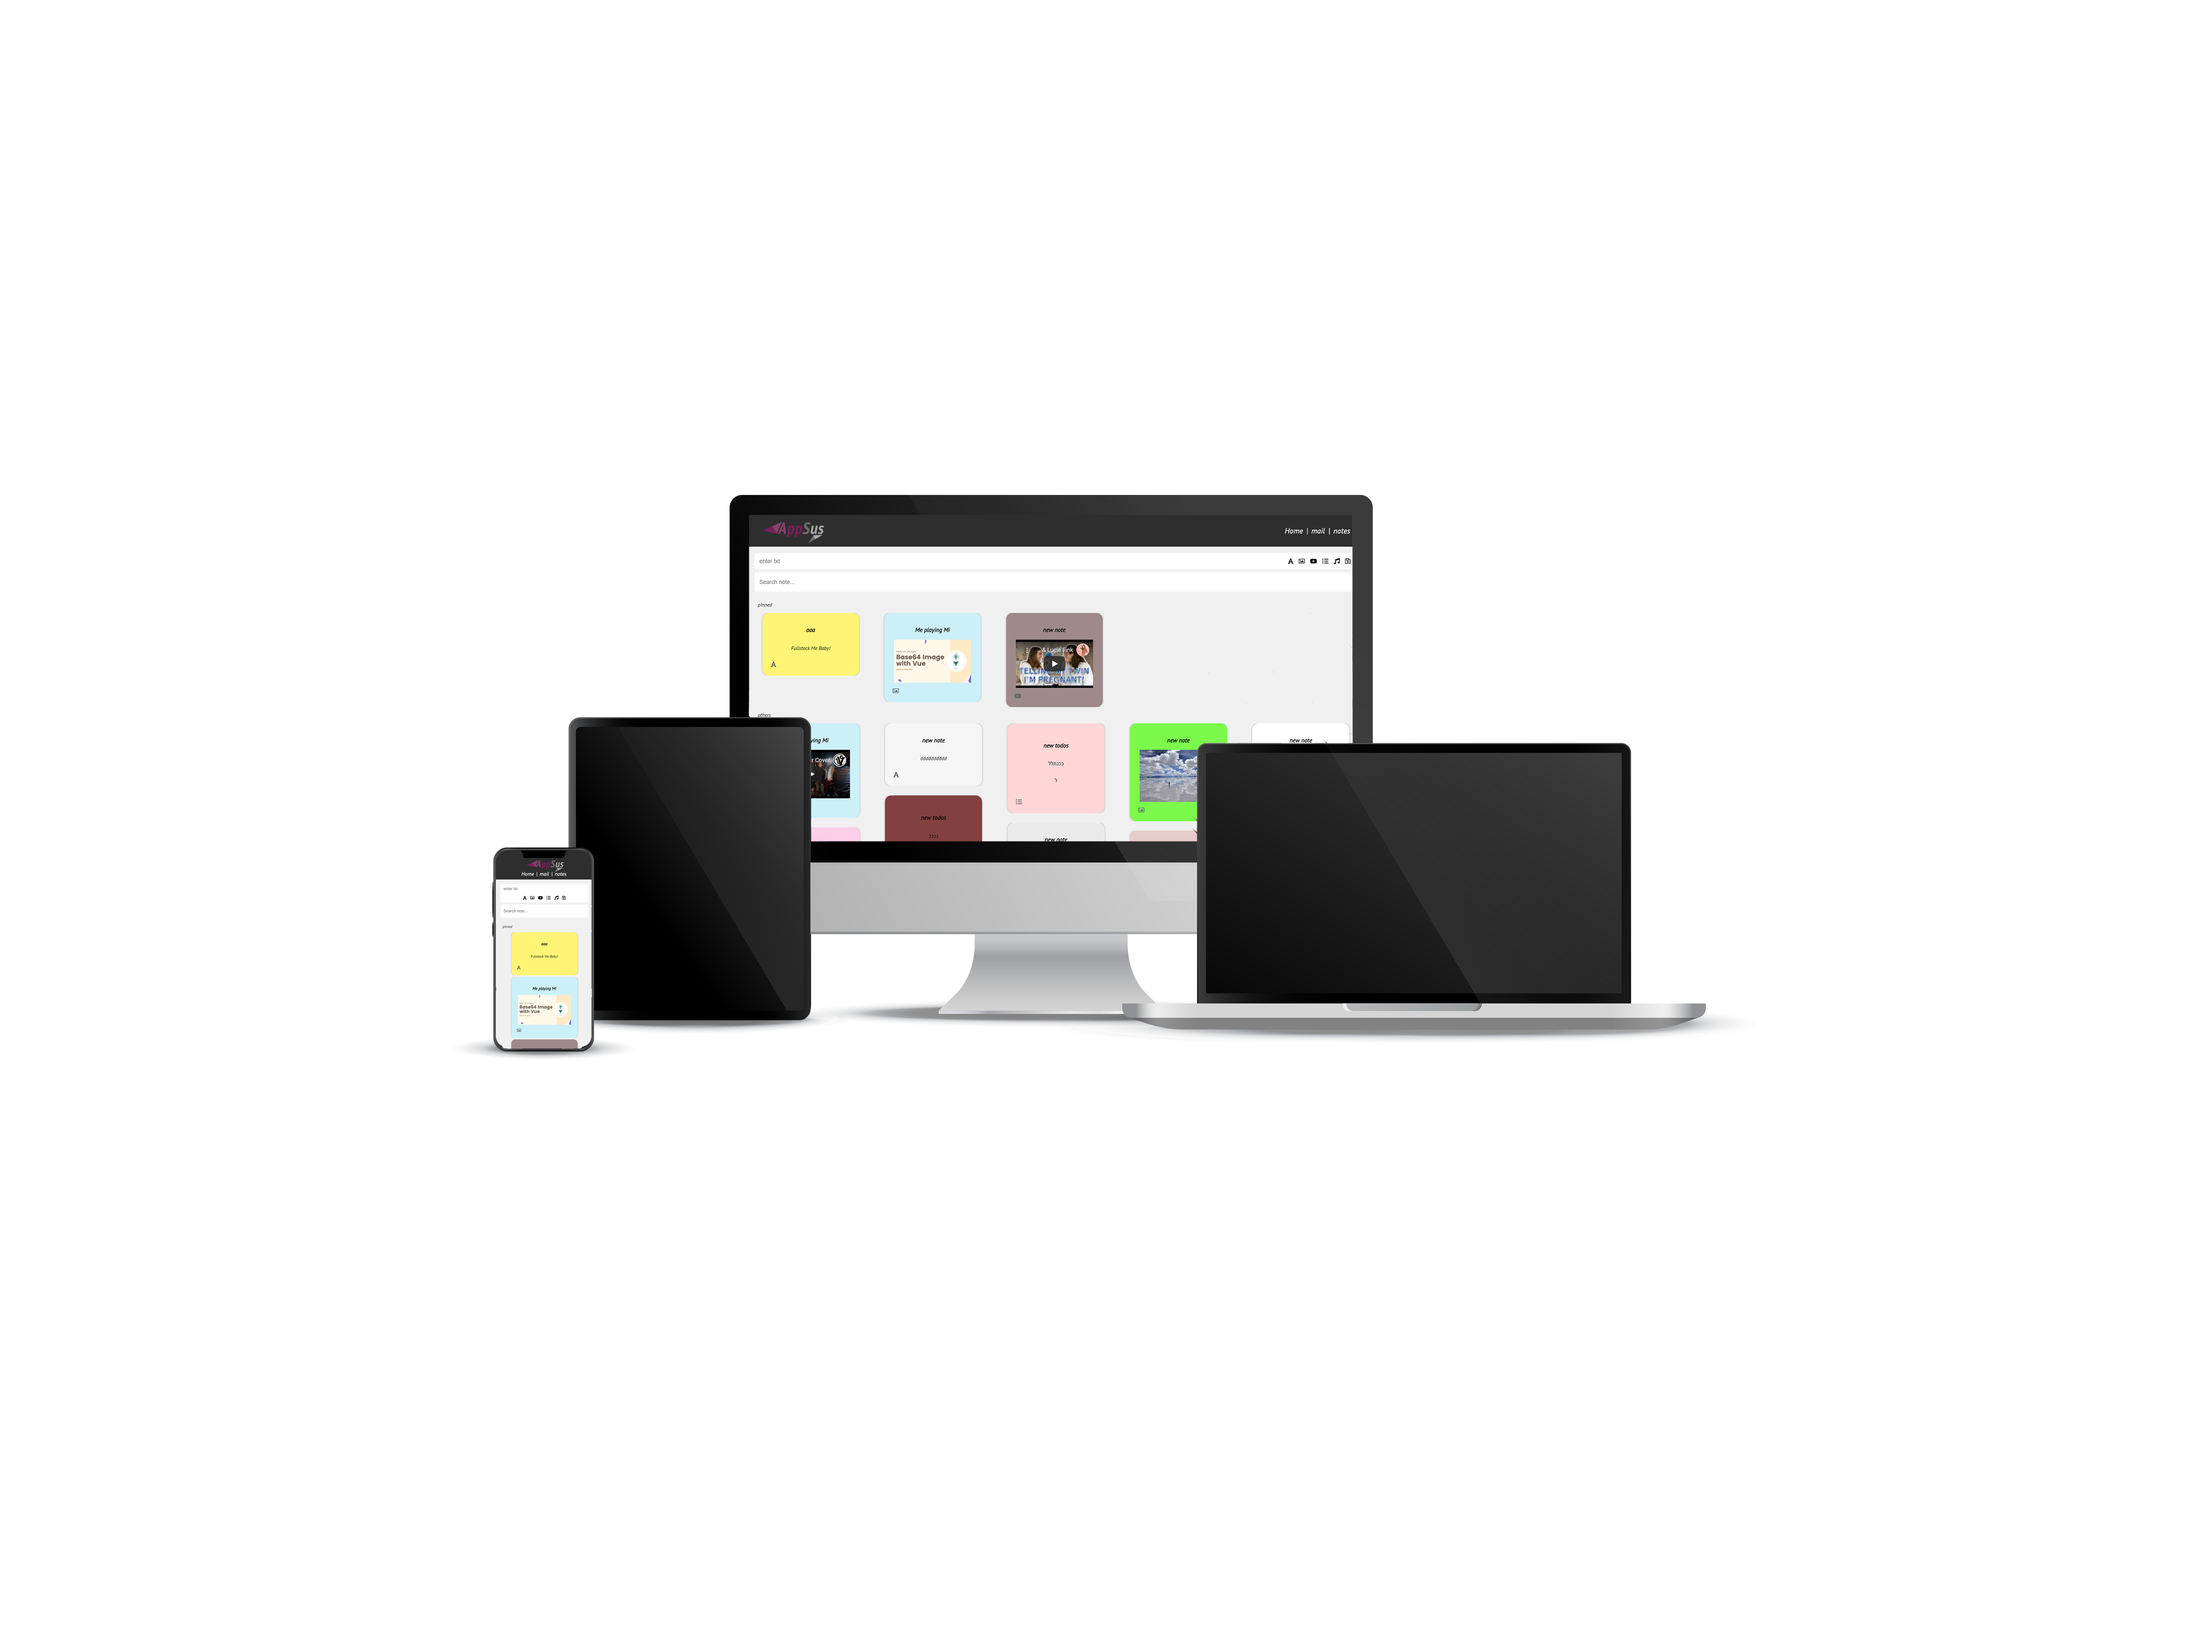
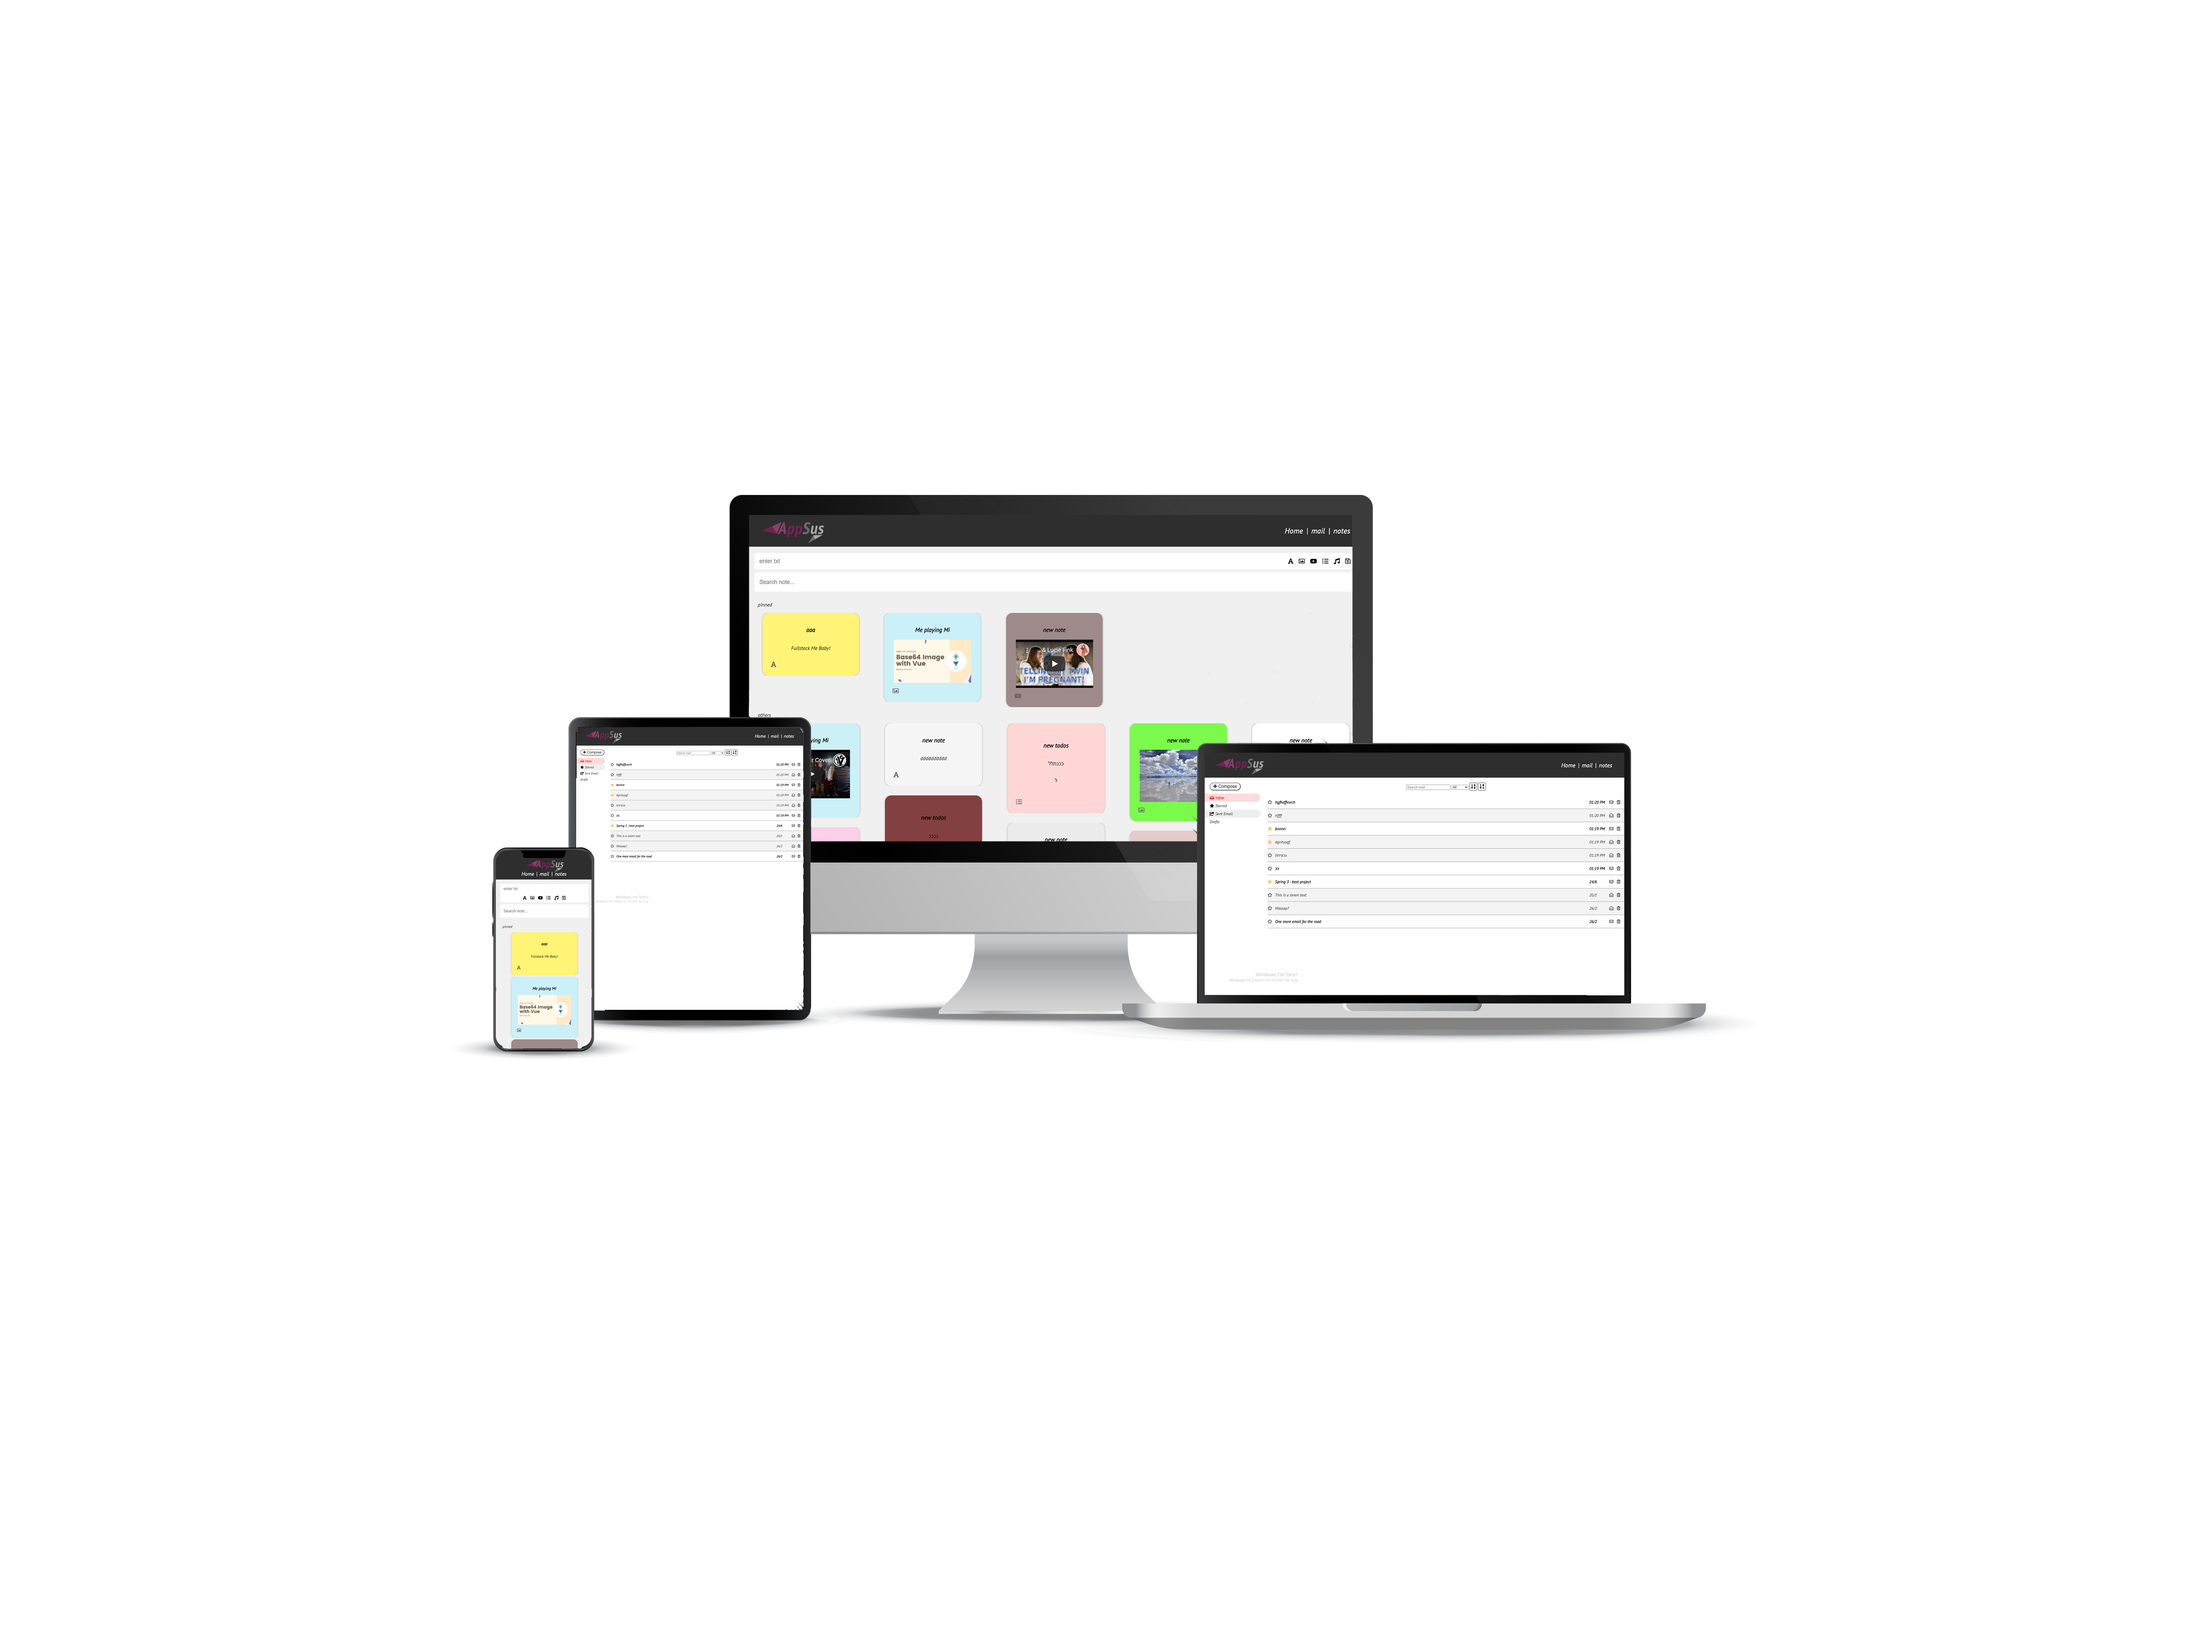
fix img git

Changed region(s): [[0.529, 0.4657, 0.7468, 0.6209], [0.2489, 0.4347, 0.3734, 0.6209]]

diff --git a/js/cmps/app-header.js b/js/cmps/app-header.js
@@ -1,7 +1,7 @@
 export default {
     template: `
     <header class="app-header">
-        <img class="logo" src="../../img/logo.png"/>
+        <img class="logo" src="./img/logo.png"/>
         <nav>
             <router-link to="/" active-class="nav" exact>Home</router-link> |
             <router-link to="/mail/inbox" active-class="nav">mail</router-link> |

diff --git a/js/pages/app.js b/js/pages/app.js
@@ -2,7 +2,7 @@ import appHeader from "../cmps/app-header.js"
 export default {
     template:`
         <section class="home-main">
-           <img class="home-responsive" src="../../img/responsive.png"/>
+           <img class="home-responsive" src="./img/responsive.png"/>
            <div class="go-to">
            <div class="try-home"> 
            
